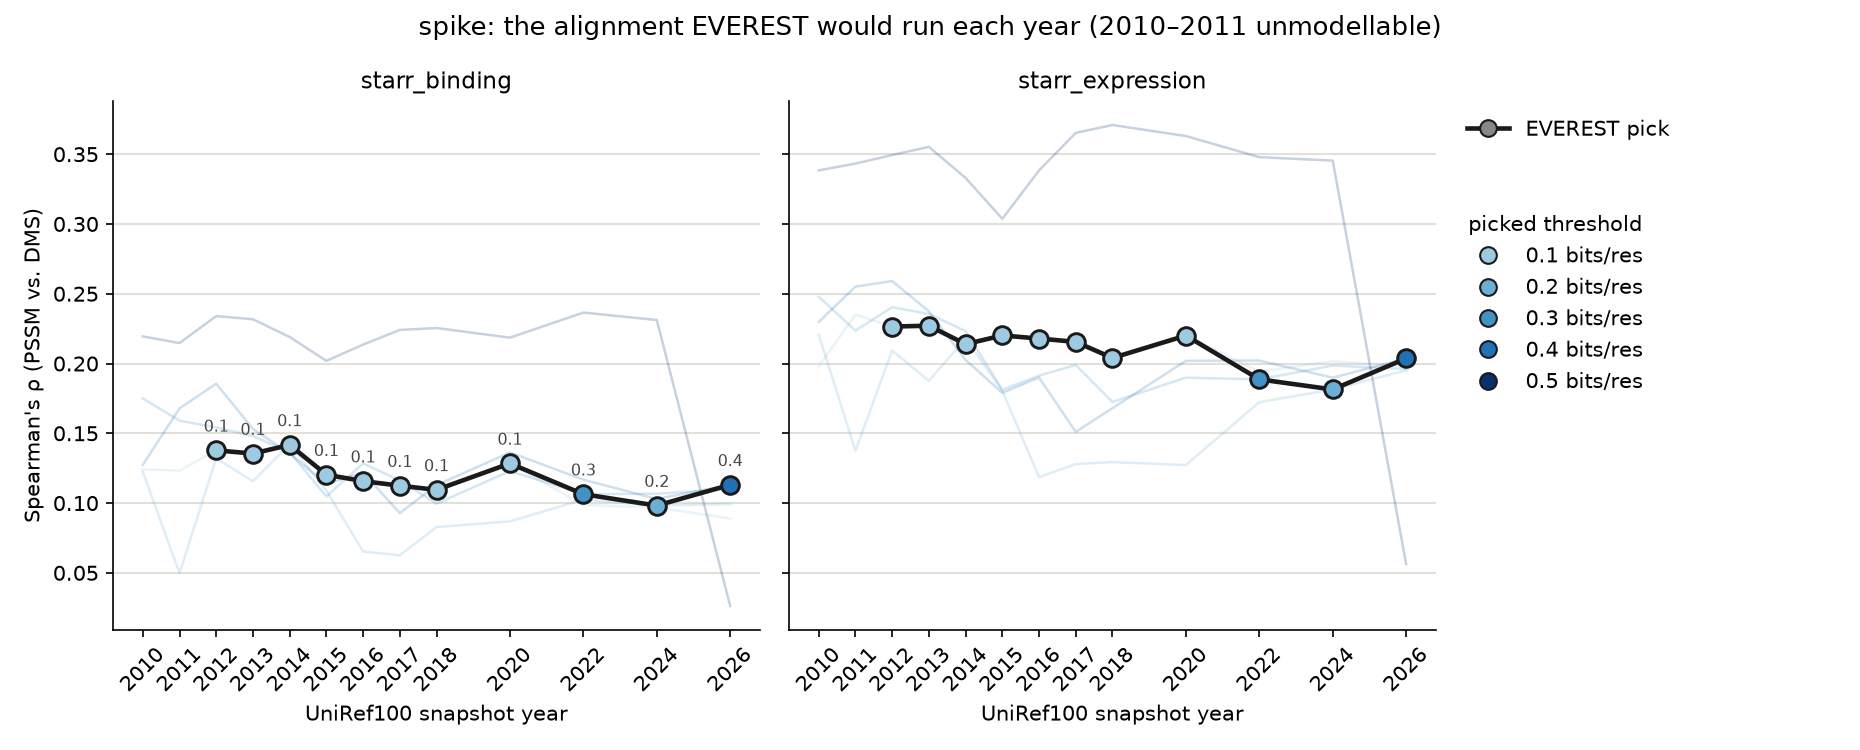
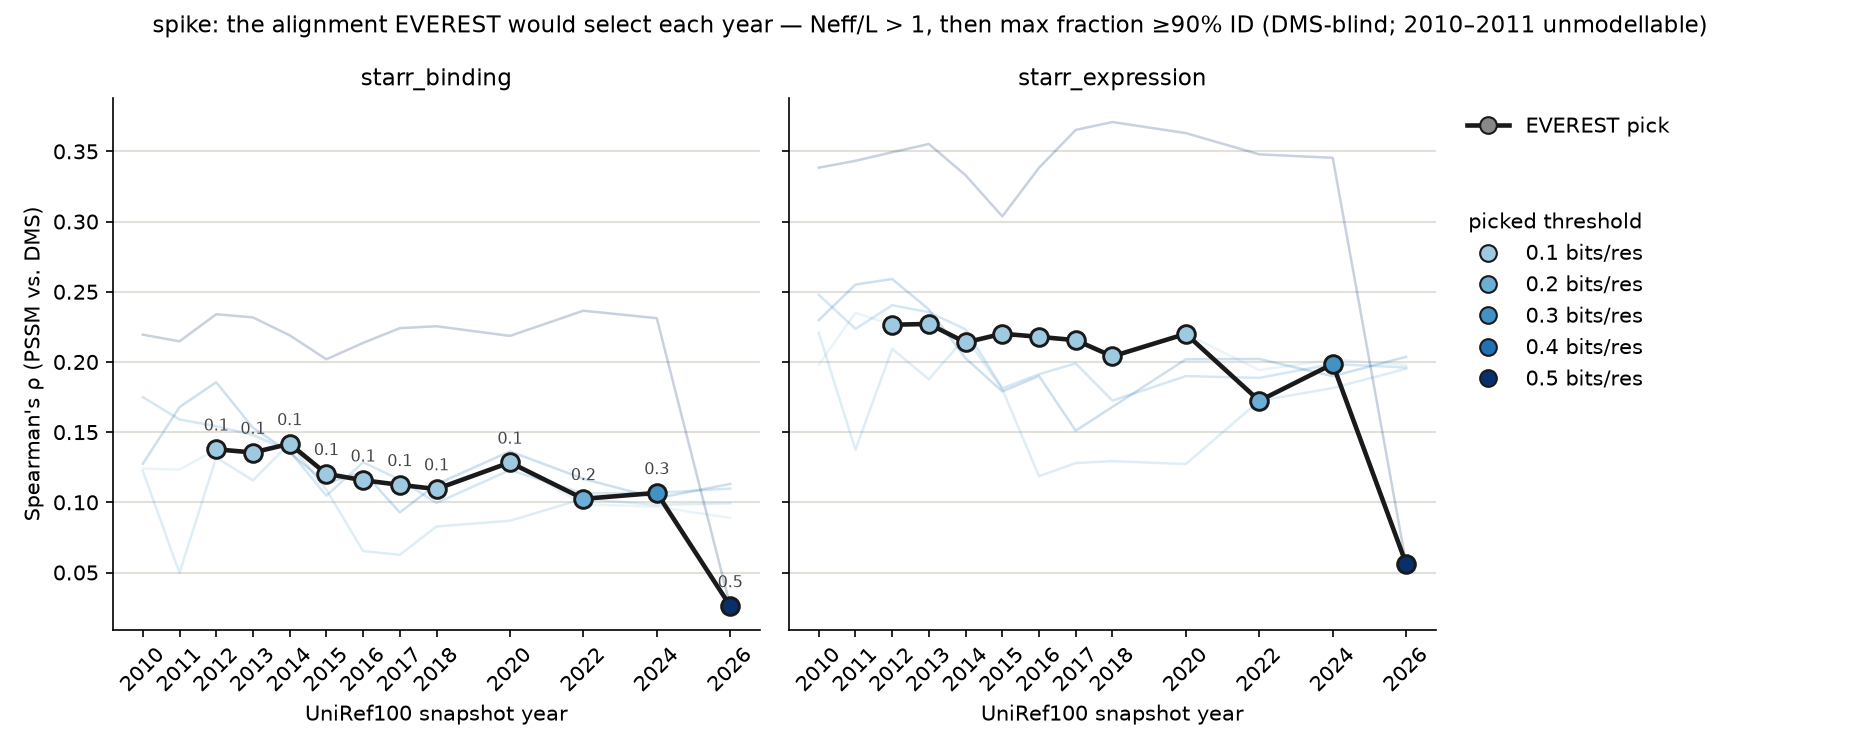
Make threshold-sweep selection EVEREST-faithful; document conclusions
Selection in plot_threshold_sweep.py now follows the paper's within-protein
rule (Methods A.6.1): among alignments clearing Neff/L > 1, pick the highest
fraction of sequences within 90% identity (Neff@90%ID / Neff), DMS-blind.
Drops the previous max-Neff/L criterion and the Neff@90%ID >= 30 gate (that
quantity is EVEREST's cross-protein confidence flag, not a selection rule).
Remove the redundant _everest_selected depth-floor figure.

Document the conclusions: the Spike accuracy-vs-year finding is
threshold-invariant (README Findings); the selection rule and "sweep per
protein, keep scoring every threshold" as method to preserve (README); and two
open items (README/CLAUDE.md): reposition the swept grid toward the extremes
EVEREST actually selects ({0.5,0.3,0.1,0.05,0.03}, or {0.5,0.1,0.03}), and the
mislabeled RELIABILITY_NEFF_THRESHOLD in 03_weights.py.

diff --git a/scripts/sweep/plot_threshold_sweep.py b/scripts/sweep/plot_threshold_sweep.py
@@ -1,10 +1,11 @@
 #!/usr/bin/env python3
 """Plot the bit-score threshold sweep: rho vs. snapshot year, one line per threshold.
 
-Companion to `plot.py` (which draws the single-threshold headline curve). This
-figure overlays every swept bit-score threshold so the effect of hit stringency
-can be read off against database growth. Reads the same collected table and
-writes one PNG per protein under `plots/`:
+Companion to `plot.py` (which draws the single-threshold headline curve). Writes
+two PNGs per protein under `plots/`: `*_threshold_sweep.png` overlays every swept
+bit-score threshold so the effect of hit stringency can be read off against
+database growth, and `*_threshold_sweep_everest_pick.png` traces the single
+alignment EVEREST's DMS-blind rule would select each year. Run:
 
     python scripts/sweep/plot_threshold_sweep.py
 
@@ -27,7 +28,6 @@ REPO_ROOT = Path(__file__).resolve().parents[2]
 IN_CSV = REPO_ROOT / "data" / "sweep_results.csv"
 PROTEIN = Path(os.environ.get("PROTEIN_CONFIG", "config/spike.yaml")).stem
 OUT_PNG = REPO_ROOT / "plots" / f"{PROTEIN}_threshold_sweep.png"
-OUT_PNG_SELECTED = REPO_ROOT / "plots" / f"{PROTEIN}_threshold_sweep_everest_selected.png"
 OUT_PNG_PICK = REPO_ROOT / "plots" / f"{PROTEIN}_threshold_sweep_everest_pick.png"
 
 # Sequential (ColorBrewer Blues, darkened): threshold is ordinal, so a single-hue
@@ -59,38 +59,18 @@ def plot_assay(ax, sub, title):
     ax.set_axisbelow(True)
 
 
-def plot_assay_selected(ax, sub, title):
-    """Same rho-vs-year curves, but each point marked by whether EVEREST's
-    alignment-selection floor (Neff/L >= 1.0, `03_weights.py`) would have kept
-    it: filled = selected, hollow = rejected as too shallow. Lines are faded to
-    context so the selected/rejected split is what reads."""
-    for thr in sorted(sub["bitscore_per_residue"].unique()):
-        s = sub[sub["bitscore_per_residue"] == thr].sort_values("year")
-        color = THRESHOLD_COLORS.get(thr, "#888888")
-        ax.plot(s["year"], s["spearman_rho"], color=color, linewidth=1.5,
-                alpha=0.3, zorder=2, label=f"{thr:g} bits/res")
-        sel = s[s["clears_depth_floor"]]
-        rej = s[~s["clears_depth_floor"]]
-        ax.scatter(rej["year"], rej["spearman_rho"], s=30, facecolor="none",
-                   edgecolor=color, linewidth=1.2, alpha=0.6, zorder=3)
-        ax.scatter(sel["year"], sel["spearman_rho"], s=62, color=color,
-                   edgecolor="#1a1a1a", linewidth=1.3, zorder=4)
-    ax.set_title(title, fontsize=11)
-    ax.set_xlabel("UniRef100 snapshot year")
-    ax.set_xticks(sorted(sub["year"].unique()))
-    ax.tick_params(axis="x", rotation=45)
-    ax.spines[["top", "right"]].set_visible(False)
-    ax.grid(axis="y", color="#e1e0d9", linewidth=1, zorder=0)
-    ax.set_axisbelow(True)
-
-
 def everest_picks(sub):
-    """The single alignment EVEREST would run per year: among thresholds that
-    clear both quality gates (Neff/L >= 1.0 and Neff@90%ID >= 30), the deepest
-    (max Neff/L). DMS-blind -- the pick never looks at rho. Years where nothing
-    clears are simply absent (EVEREST would decline to model them)."""
-    elig = sub[sub["clears_depth_floor"] & sub["clears_reliability"]]
-    picks = [g.loc[g["Neff_over_L"].idxmax()] for _, g in elig.groupby("year")]
+    """The single alignment EVEREST would run per year, selected DMS-blind by the
+    paper's within-protein rule (Methods A.6.1): among alignments that clear the
+    depth floor (Neff/L > 1), the one with the highest *proportion* of sequences
+    within 90% identity of the query (prop90 = Neff@90%ID / Neff). The pick never
+    looks at rho. Note this is NOT max-depth: the paper falls back to max Neff/L
+    only for proteins where no alignment reaches the floor. The ``Neff@90%ID >= 30``
+    reliability bar is deliberately not applied here -- that is EVEREST's
+    cross-protein *confidence* flag, not part of within-protein selection. Years
+    where nothing clears the floor are absent (EVEREST would decline to model them)."""
+    elig = sub[sub["clears_depth_floor"]]
+    picks = [g.loc[g["prop90"].idxmax()] for _, g in elig.groupby("year")]
     return pd.DataFrame(picks).sort_values("year")
 
 
@@ -130,9 +110,13 @@ def _grid(df, assays, plot_fn):
 
 def main():
     df = pd.read_csv(IN_CSV)
-    df = df[(df["status"] == "DONE") & (df["protein"] == PROTEIN)]
+    df = df[(df["status"] == "DONE") & (df["protein"] == PROTEIN)].copy()
     if df.empty:
         raise SystemExit(f"no DONE rows for protein={PROTEIN!r} in {IN_CSV}")
+
+    # Alignment relevance: fraction of the alignment's effective sequences that
+    # sit within 90% identity of the query. EVEREST's within-protein selector.
+    df["prop90"] = df["Neff_at_90pct_identity"] / df["Neff"]
 
     assays = sorted(df["dms_id"].unique())
 
@@ -146,30 +130,9 @@ def main():
     fig.savefig(OUT_PNG, dpi=150)
     print(f"Wrote {OUT_PNG}")
 
-    # Figure 2: same curves, with EVEREST's selection floor applied.
-    fig, axes = _grid(df, assays, plot_assay_selected)
-    thr_handles = [Line2D([], [], color=THRESHOLD_COLORS[t], lw=2, label=f"{t:g} bits/res")
-                   for t in sorted(df["bitscore_per_residue"].unique())]
-    sel_handles = [
-        Line2D([], [], marker="o", linestyle="none", markersize=8, color="#555",
-               markeredgecolor="#1a1a1a", label="selected (Neff/L ≥ 1.0)"),
-        Line2D([], [], marker="o", linestyle="none", markersize=6, markerfacecolor="none",
-               markeredgecolor="#555", label="rejected (too shallow)"),
-    ]
-    leg1 = axes[-1].legend(handles=thr_handles, frameon=False, loc="upper left",
-                           bbox_to_anchor=(1.02, 1.0), title="bit-score threshold")
-    axes[-1].add_artist(leg1)
-    axes[-1].legend(handles=sel_handles, frameon=False, loc="upper left",
-                    bbox_to_anchor=(1.02, 0.42), title="EVEREST selection")
-    fig.suptitle(f"{PROTEIN}: which (year × threshold) alignments EVEREST would select",
-                 fontsize=13)
-    fig.tight_layout(rect=(0, 0, 0.9, 1))
-    fig.savefig(OUT_PNG_SELECTED, dpi=150)
-    print(f"Wrote {OUT_PNG_SELECTED}")
-
-    # Figure 3: the single alignment EVEREST would run per year (deepest that
-    # clears both gates), traced as one bold curve; thresholds still colour-code
-    # the markers so the shifting pick is visible.
+    # Figure 2: the single alignment EVEREST would select per year, traced as one
+    # bold curve; thresholds still colour-code the markers so the shifting pick is
+    # visible.
     fig, axes = plt.subplots(1, len(assays), figsize=(6.2 * len(assays), 5), sharey=True)
     axes = [axes] if len(assays) == 1 else axes
     for i, (ax, assay) in enumerate(zip(axes, assays)):
@@ -187,8 +150,9 @@ def main():
     axes[-1].add_artist(leg1)
     axes[-1].legend(handles=thr_handles, frameon=False, loc="upper left",
                     bbox_to_anchor=(1.02, 0.82), title="picked threshold")
-    fig.suptitle(f"{PROTEIN}: the alignment EVEREST would run each year "
-                 "(2010–2011 unmodellable)", fontsize=12.5)
+    fig.suptitle(f"{PROTEIN}: the alignment EVEREST would select each year "
+                 "— Neff/L > 1, then max fraction ≥90% ID (DMS-blind; "
+                 "2010–2011 unmodellable)", fontsize=11)
     fig.tight_layout(rect=(0, 0, 0.9, 1))
     fig.savefig(OUT_PNG_PICK, dpi=150)
     print(f"Wrote {OUT_PNG_PICK}")

diff --git a/README.md b/README.md
@@ -379,6 +379,11 @@ disk, for whichever protein is under study.
     say whether the threshold or the protein explains the different
     behavior.
 
+- **Bit-score threshold is not load-bearing for the Spike finding.** Across
+  {0.1–0.5} bits/residue the decline-then-plateau shape holds; only 0.5 raises
+  rho, and only by returning degenerate near-duplicate-only alignments that fail
+  the depth floor. See `plots/spike_threshold_sweep*.png`.
+
 > Update this section as status changes; keep CLAUDE.md pointing here rather
 > than duplicating it. Completed work items live in git history, not as a
 > running TODO list in this file.
@@ -397,6 +402,15 @@ than inventing a new approach, and note it here if you deviate.
   80%, because two sequences differing by 1% can already have meaningfully
   different fitness for this protein. Neff/L (effective sequences per column)
   is the depth-adequacy check against EVEREST's floor of 1.0.
+- **Alignment selection is DMS-blind and per protein** (EVEREST Methods A.6.1):
+  among alignments with Neff/L > 1, use the one with the highest *fraction* of
+  sequences within 90% identity of the query (`Neff@90%ID / Neff`). Never select
+  on rho (leakage), and don't gate selection on a `Neff@90%ID ≥ N` cutoff — that
+  is EVEREST's separate cross-protein *confidence* flag, not a selection rule.
+  Sweep the threshold per protein (the best alignment is protein-specific) and
+  **keep scoring every swept threshold, not just the selected one**: the
+  selection rule can pick a degenerate alignment (on Spike, 2026 selects 0.5 —
+  80% imputed, rho 0.03), and only the full set surfaces that.
 - **Column/sequence filtering in `02_clean_msa.py`** (drop columns >50% gaps,
   drop sequences <50% query coverage) is computed against the *original*
   query positions independently for both filters, not against each other's

diff --git a/CLAUDE.md b/CLAUDE.md
@@ -61,6 +61,21 @@ approach, and add it to that section if you deviate.
   `config.load_config()`, so the search and the reuse fingerprint both see
   it), tagging cells `<year>_t<thr>` so they coexist in one
   `sweep_results.csv` — see README's "Running the bit-score threshold sweep".
+  Open items before running new proteins:
+  - **Reposition the swept threshold values.** EVEREST's own selections
+    (`priority-viruses/results/summary/ali_selection_summary.csv`, 45 DMS)
+    concentrate at the extremes: the stringent 0.5 wins ~37/44 on UniRef100
+    (highest fraction ≥90% ID), with a thin low-end tail (0.05/0.03) rescuing
+    depth-starved families; the evenly-spaced middle is never used (they don't
+    even test 0.2/0.4). So drop {0.2, 0.4} from our grid and add {0.05, 0.03} —
+    `{0.5, 0.3, 0.1, 0.05, 0.03}` covers the regime selection actually uses, or
+    consider just `{0.5, 0.1, 0.03}` (high / mid / low-depth) to sweep fewer.
+  - **Fix the reliability-cutoff misuse.** `03_weights.py`'s
+    `RELIABILITY_NEFF_THRESHOLD = 30` is labelled "the paper's reliability
+    threshold," but the paper calibrates that value — it isn't 30 — and Neff@90%ID
+    is a cross-protein *confidence* flag, not an alignment-*selection* gate (see
+    README's alignment-selection methodology note). Selection currently lives
+    only in `plot_threshold_sweep.py`; the scoring pipeline doesn't select yet.
 
 ## Gotchas
 
